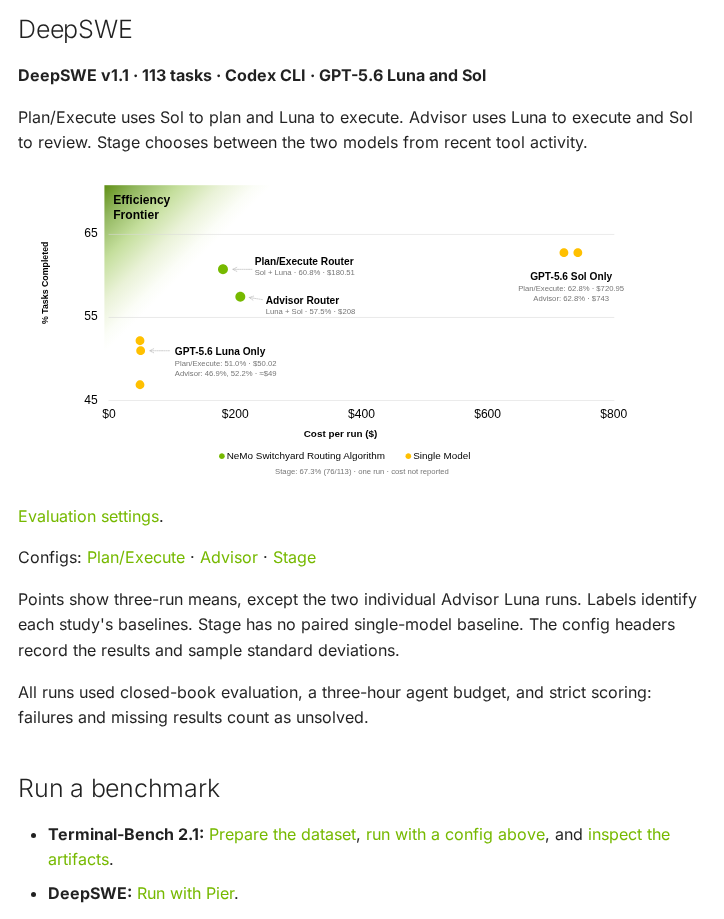
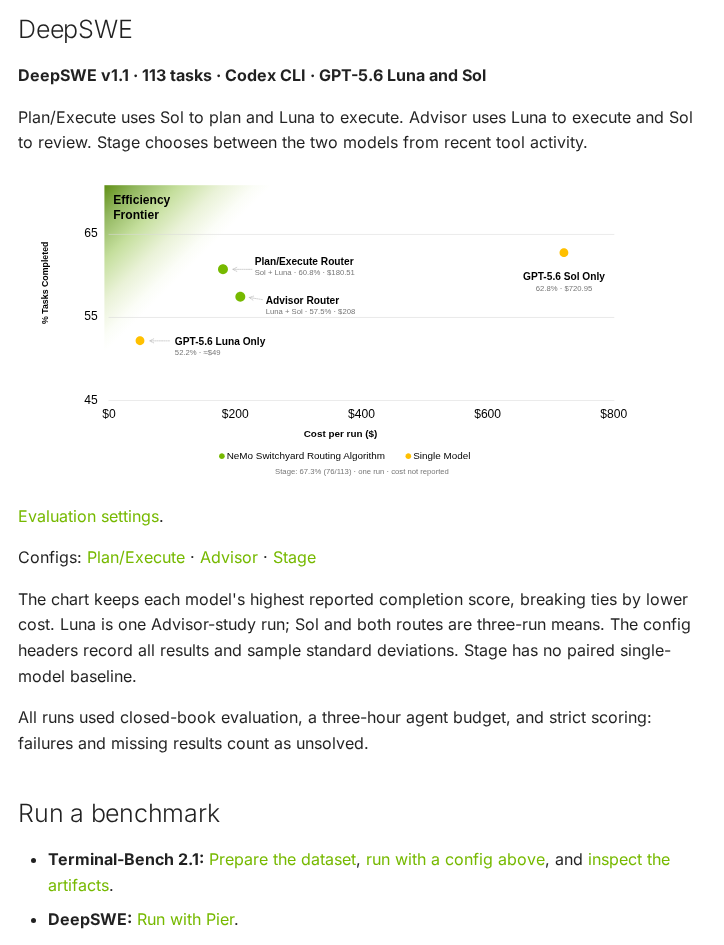
docs(benchmarks): refresh best baseline preview

diff --git a/docs/benchmarks.md b/docs/benchmarks.md
@@ -35,7 +35,7 @@ a fresh benchmark.
 Plan/Execute uses Sol to plan and Luna to execute. Advisor uses Luna to execute and Sol to
 review. Stage chooses between the two models from recent tool activity.
 
-![DeepSWE task completion versus cost for Plan/Execute (60.8%, $180.51) and Advisor (57.5%, $208), with each study's single-model baselines. Stage solved 67.3%; its cost was not reported.](assets/deepswe-cost-accuracy.svg)
+![DeepSWE task completion versus cost for Plan/Execute (60.8%, $180.51), Advisor (57.5%, $208), and the best reported baselines: Sol (62.8%, $720.95) and Luna (52.2%, about $49). Stage solved 67.3%; its cost was not reported.](assets/deepswe-cost-accuracy.svg)
 
 [Evaluation settings](../benchmark/DEEPSWE_V11_QUALIFICATION.md).
 
@@ -43,9 +43,9 @@ Configs: [Plan/Execute](../benchmark/routing-profiles/deepswe-v11-plan-execute-l
 [Advisor](../benchmark/routing-profiles/deepswe-v11-advisor-gate-luna-sol.toml) ·
 [Stage](../benchmark/routing-profiles/deepswe-v11-stage-router-luna-sol.toml)
 
-Points show three-run means, except the two individual Advisor Luna runs. Labels identify
-each study's baselines. Stage has no paired single-model baseline. The config headers record
-the results and sample standard deviations.
+The chart keeps each model's highest reported completion score, breaking ties by lower cost.
+Luna is one Advisor-study run; Sol and both routes are three-run means. The config headers
+record all results and sample standard deviations. Stage has no paired single-model baseline.
 
 All runs used closed-book evaluation, a three-hour agent budget, and strict scoring:
 failures and missing results count as unsolved.
